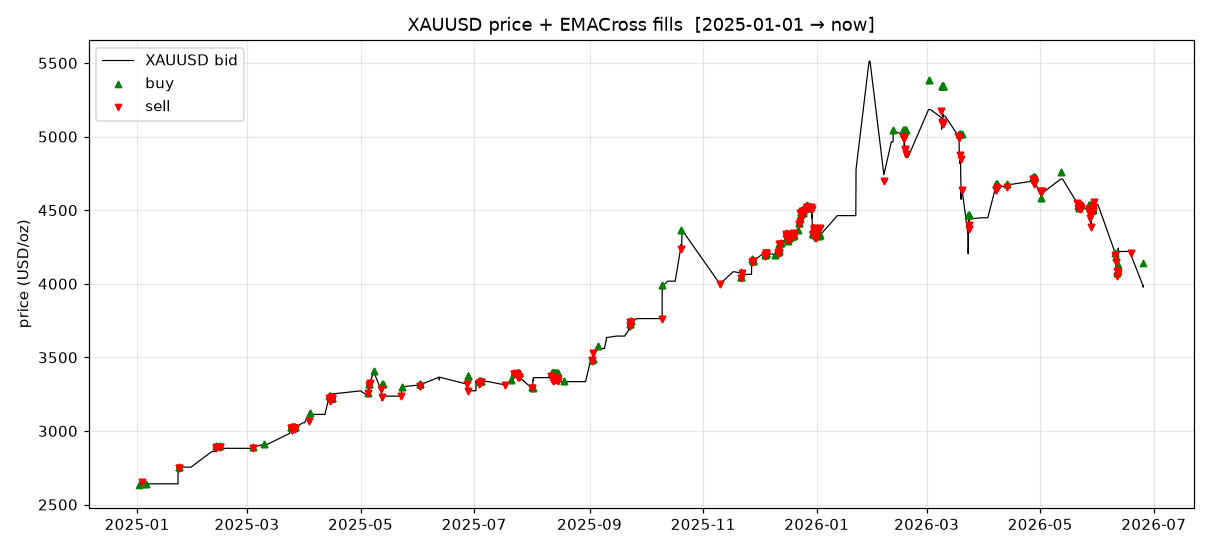
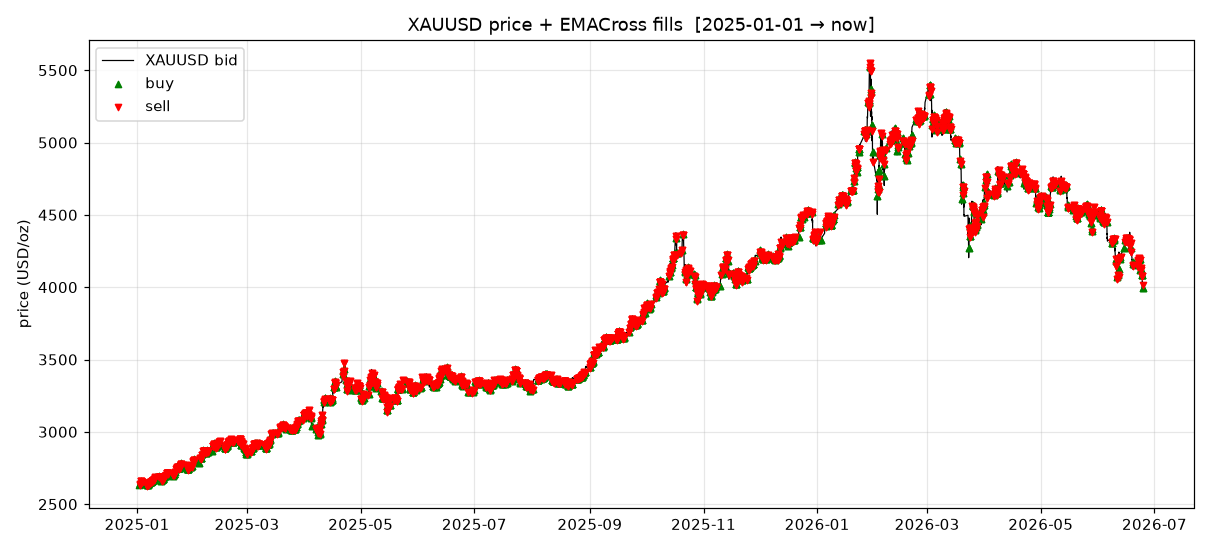
Add tick→m1 pipeline (paired, complete feed) + gold validation plan
The first backtest's +1882% was a data artifact: Dukascopy m1 candles are
downloaded one price side at a time onto different minute grids, and forward-
filling them fabricated crossed books (ask < bid) on 42% of minutes -> buys
filled below the bid = fictional free money. The crossed-book filter was a
stopgap (drops 42% of bars, leaving holes that distort the EMA -> -1080%).

build_m1_from_ticks.py fixes it at the source: download Dukascopy TICK data
(bid+ask paired per row) and resample both from one stream, so ask >= bid holds
by construction (selftest + crossed==0 + >=800 bars/day asserts). Run sequential
with retries — a parallel fan-out triggered throttling that silently returned 6%
of the ticks. On clean, complete data (523,505 bars, 0 crossed, 1136/day) the
honest result is -92.6%: EMACross(50/200) has no edge and whipsaws to death.

docs/gold-strategy-validation-plan.md lays out the 3-tier ladder (Dukascopy
research -> IBKR GC-futures venue-match -> IBKR paper) with real measured IBKR
numbers (GC spread ~$0.30/oz, ~30-35:1, 3500-pt/request cap, spot has no data).

diff --git a/XAU-NT-Wrangler/scripts/build_m1_from_ticks.py b/XAU-NT-Wrangler/scripts/build_m1_from_ticks.py
@@ -1,0 +1,183 @@
+#!/usr/bin/env python3
+"""
+Build PAIRED 1-minute bid/ask bars for a Dukascopy instrument from raw TICK data.
+
+Why ticks: Dukascopy m1 candles must be downloaded one price side at a time
+(-p bid / -p ask), so bid and ask land on DIFFERENT minute grids. Forward-filling
+the two onto a common grid (what download_dukascopy.sh + the old backtest did)
+pairs a fresh quote on one side with a stale one on the other and fabricates
+crossed books (ask < bid) on ~42% of minutes -> fictional fills. Full writeup:
+docs/dukascopy-data-issues.md.
+
+Tick data has bid AND ask in the SAME record, so resampling both from one tick
+stream keeps them on an identical grid and ask >= bid holds column-wise by
+construction (proven in demo()). Output matches the old format
+(timestamp_ms,open,high,low,close,volume) so backtest.py reads it unchanged.
+
+Usage:
+    python scripts/build_m1_from_ticks.py xauusd 2025 2026-06-25   # inst from to (one shot)
+    python scripts/build_m1_from_ticks.py xauusd 2025 2026 --download-only  # populate _parts only
+    python scripts/build_m1_from_ticks.py xauusd --merge-only      # _parts -> bid.csv/ask.csv
+    python scripts/build_m1_from_ticks.py --selftest               # offline invariant check
+
+`from`/`to` accept YYYY or YYYY-MM-DD. --download-only + --merge-only let several
+processes (or a fan-out workflow) each grab a disjoint date slice into the shared
+<outdir>/_parts dir, then merge once at the end.
+
+Needs node/npx (uses `npx dukascopy-node`). Downloads & aggregates one MONTH at a
+time (a single day of XAUUSD ticks is ~266k rows) so tick volume never blows up
+memory/disk; raw tick CSVs live in a temp dir and are deleted after aggregation.
+Per-month m1 results are cached in <outdir>/_parts so a long run is resumable.
+
+RUN IT SEQUENTIALLY. Dukascopy throttles concurrent clients and (without retries)
+silently drops the throttled hours, yielding sparse months -> garbage backtests.
+We learned this the hard way: a 6-way parallel fan-out returned ~6% of the ticks.
+The download is network/throttle-bound, so concurrency buys little and risks a lot;
+-r/-re retries + a >=800 bars/day completeness assert are the guardrails.
+"""
+import glob
+import os
+import subprocess
+import sys
+import tempfile
+from datetime import date
+
+import pandas as pd
+
+COLS = ["timestamp", "open", "high", "low", "close", "volume"]
+
+
+def aggregate(tick_csv: str):
+    """One tick CSV -> (bid_m1, ask_m1) DataFrames in output format, identical grid."""
+    t = pd.read_csv(tick_csv)
+    low = {c.lower(): c for c in t.columns}
+    t.index = pd.to_datetime(t[low["timestamp"]], unit="ms", utc=True)
+    if "bidvolume" in low and "askvolume" in low:
+        vol = (t[low["bidvolume"]] + t[low["askvolume"]]).resample("1min").sum()
+    else:  # no -v on the download: fall back to tick count as the activity proxy
+        vol = t[low["bidprice"]].resample("1min").count().astype(float)
+
+    def m1(price_col: str) -> pd.DataFrame:
+        o = t[price_col].resample("1min").ohlc()
+        o["volume"] = vol
+        o = o[o["open"].notna()]  # keep only minutes that actually traded
+        o.insert(0, "timestamp", o.index.astype("int64") // 10**6)
+        return o.reset_index(drop=True)
+
+    return m1(low["bidprice"]), m1(low["askprice"])
+
+
+def _months(start: date, to: date):
+    y, m = start.year, start.month
+    while date(y, m, 1) < to:
+        nxt = date(y + (m == 12), (m % 12) + 1, 1)
+        yield max(date(y, m, 1), start), min(nxt, to)
+        y, m = nxt.year, nxt.month
+
+
+def download_months(inst: str, start: date, to: date, parts: str) -> None:
+    """Download+aggregate each month in [start, to) into parts/{bid,ask}-YYYY-MM.csv."""
+    os.makedirs(parts, exist_ok=True)
+    for mstart, mend in _months(start, to):
+        tag = f"{mstart:%Y-%m}"
+        bpath, apath = (os.path.join(parts, f"{s}-{tag}.csv") for s in ("bid", "ask"))
+        if os.path.exists(bpath) and os.path.exists(apath):
+            print(f"[{tag}] cached, skip", flush=True)
+            continue
+        with tempfile.TemporaryDirectory() as tmp:
+            print(f"[{tag}] downloading ticks...", flush=True)
+            subprocess.run(
+                # -r/-rp: retry FAILED artifacts (network/throttle errors). -fr: don't kill the run
+                # when an hour is still unavailable after retries (closed-market hours are legitimately
+                # 0-byte). NOT -re: retrying every weekend/holiday empty hour 5x would take hours and,
+                # with the default fail-after-retries, aborts on the first closed hour. The >=800
+                # bars/day assert below is the real guard against silently-sparse (throttled) months.
+                ["npx", "--yes", "dukascopy-node", "-i", inst,
+                 "-from", mstart.isoformat(), "-to", mend.isoformat(),
+                 "-t", "tick", "-p", "bid", "-v", "-f", "csv", "-dir", tmp,
+                 "-bs", "20", "-bp", "500", "-r", "5", "-rp", "1500", "-fr"],
+                check=True, stdout=subprocess.DEVNULL, stderr=subprocess.DEVNULL,
+            )
+            csvs = glob.glob(os.path.join(tmp, "*.csv"))
+            if not csvs or os.path.getsize(csvs[0]) == 0:
+                # empty month (instrument not yet listed / market closed): mark done so resume skips
+                for p in (bpath, apath):
+                    pd.DataFrame(columns=COLS).to_csv(p, index=False)
+                print(f"[{tag}] empty, skipped", flush=True)
+                continue
+            b, a = aggregate(csvs[0])
+            days = pd.to_datetime(b["timestamp"], unit="ms", utc=True).dt.date.nunique()
+            per_day = len(b) / max(days, 1)
+            if per_day < 800:  # XAUUSD trades ~1380 min/day; sub-800 means a throttled/partial month
+                sys.exit(f"[{tag}] SPARSE: {len(b):,} bars / {days} days = {per_day:.0f}/day "
+                         f"(expected ~1380). Throttled download — rerun (resumes); reduce concurrency.")
+            b.to_csv(bpath, index=False)
+            a.to_csv(apath, index=False)
+            print(f"[{tag}] +{len(b):,} m1 bars over {days} days ({per_day:.0f}/day)", flush=True)
+
+
+def merge(outdir: str) -> None:
+    """Concat all _parts into bid.csv/ask.csv and assert the paired/no-crossed invariant."""
+    parts = os.path.join(outdir, "_parts")
+    for name in ("bid", "ask"):
+        files = sorted(glob.glob(os.path.join(parts, f"{name}-*.csv")))
+        if not files:
+            sys.exit(f"no _parts found in {parts} — run a download first")
+        df = pd.concat(pd.read_csv(f) for f in files)
+        df = df.drop_duplicates("timestamp", keep="last").sort_values("timestamp")
+        path = os.path.join(outdir, f"{name}.csv")
+        df[COLS].to_csv(path, index=False)
+        print(f"wrote {len(df):,} rows -> {path}")
+    b = pd.read_csv(os.path.join(outdir, "bid.csv"))
+    a = pd.read_csv(os.path.join(outdir, "ask.csv"))
+    assert (b["timestamp"].values == a["timestamp"].values).all(), "bid/ask grids differ!"
+    px = ["open", "high", "low", "close"]
+    crossed = int((a[px].values < b[px].values).any(axis=1).sum())
+    print(f"crossed-book minutes: {crossed} (expected 0)")
+    t = pd.to_datetime(b["timestamp"], unit="ms", utc=True)
+    days = t.dt.date.nunique()
+    per_day = len(b) / max(days, 1)
+    print(f"completeness: {len(b):,} bars / {days} days = {per_day:.0f}/day (XAUUSD full day ~1380)")
+    assert per_day >= 800, f"INCOMPLETE: {per_day:.0f} bars/day — throttled download; delete _parts and rerun sequentially"
+
+
+def demo() -> None:
+    """Offline invariant: paired ticks resampled to m1 never yield a crossed book,
+    even when price ramps within a minute (high is late, low is early)."""
+    base = 1748822400000
+    rows = "timestamp,askPrice,bidPrice,askVolume,bidVolume\n" + "".join(
+        f"{base + i * 1000},{3000 + i * 0.1 + 0.30:.3f},{3000 + i * 0.1:.3f},1,1\n"
+        for i in range(120)  # 2 full minutes of 1s ticks, bid rising, ask = bid + 0.30
+    )
+    p = os.path.join(tempfile.gettempdir(), "_ticks_selftest.csv")
+    with open(p, "w") as f:
+        f.write(rows)
+    bid, ask = aggregate(p)
+    assert len(bid) == 2 and (bid["timestamp"].values == ask["timestamp"].values).all()
+    for col in ("open", "high", "low", "close"):
+        assert (ask[col].values >= bid[col].values).all(), f"crossed on {col}"
+    assert bid["high"].iloc[0] > bid["low"].iloc[0], "within-minute range lost"
+    assert bid["volume"].iloc[0] == 120, "volume not summed"  # 60 ticks * (askVol1+bidVol1)
+    print("selftest OK: paired ticks -> identical grid, ask>=bid column-wise, range preserved")
+
+
+def _pdate(s: str) -> date:
+    return date(int(s), 1, 1) if len(s) == 4 else date.fromisoformat(s)
+
+
+if __name__ == "__main__":
+    flags = {a for a in sys.argv[1:] if a.startswith("--")}
+    pos = [a for a in sys.argv[1:] if not a.startswith("--")]
+    if "--selftest" in flags or (pos and pos[0] == "demo"):
+        demo()
+    else:
+        inst = pos[0] if pos else "xauusd"
+        outdir = f"data/{inst}-m1"
+        if "--merge-only" in flags:
+            merge(outdir)
+        else:
+            start = _pdate(pos[1]) if len(pos) > 1 else date(2003, 1, 1)
+            to = _pdate(pos[2]) if len(pos) > 2 else date.today()
+            download_months(inst, start, to, os.path.join(outdir, "_parts"))
+            if "--download-only" not in flags:
+                merge(outdir)

diff --git a/XAU-NT-Wrangler/docs/gold-strategy-validation-plan.md b/XAU-NT-Wrangler/docs/gold-strategy-validation-plan.md
@@ -1,0 +1,208 @@
+# Gold strategy validation plan
+
+How to take a XAUUSD strategy from idea to real money **without fooling yourself**.
+The core idea: a backtest is an *approximation of one venue using a model*, so no
+single number is trustworthy. Confidence comes from **triangulation** — three
+independent views that each close a different gap, and that must roughly agree.
+
+```text
+Dukascopy tick history   →  strategy research   (does an edge exist at all?)
+IBKR 1-min bars (recent) →  venue-matched test  (does the edge survive MY broker?)
+IBKR paper               →  execution truth     (does it survive real fills?)
+        │                          │                        │
+   deep + free               correct prices            real latency/slippage
+   proxy venue               shallow history           limited duration
+```
+
+Only promote a strategy to the next tier when the current one passes. If the three
+disagree, the backtest was lying — and the table below tells you *which* lie.
+
+---
+
+## Why three tiers — the two gaps
+
+A Dukascopy backtest differs from live IBKR trading along **two independent axes**.
+Each tier exists to close one of them.
+
+**Gap 1 — venue (data).** Dukascopy's bid/ask come from *its* liquidity pool. IBKR's
+gold quotes come from *IBKR's* providers. Different price path, different spread,
+different cost structure (CFD-style wide spread vs IBKR's tight-spread-plus-commission
+-plus-financing). A strategy that prints money on Dukascopy prices may not on IBKR's.
+
+**Gap 2 — execution (model).** Even on perfect data, a backtest fills instantly at
+top-of-book with no latency, no slippage, no partial fills, no depth. Live, your
+order travels to the exchange, the market moves, and a large clip eats into liquidity
+you can't see. Only real (paper) order flow exposes this.
+
+| Tier | Closes | Leaves open |
+|------|--------|-------------|
+| 1 — Dukascopy | nothing (research) | venue **and** execution |
+| 2 — IBKR bars | venue (Gap 1) | execution (Gap 2) |
+| 3 — IBKR paper | execution (Gap 2) | (psychology, real-money fills) |
+
+---
+
+## Tier 1 — Dukascopy tick history (research)
+
+**Purpose:** answer the cheapest, most important question first — *is there any edge?*
+Burn deep, free history here so you fail fast before spending IBKR's rate-limited quota.
+
+**Data:** `scripts/build_m1_from_ticks.py` downloads Dukascopy **tick** data (bid+ask
+paired per row) and aggregates to paired 1-minute bars. ~23 years available, free, no
+auth. Tick is the finest time-grain a retail source offers.
+
+**Why tick, not the m1-per-price download:** Dukascopy's m1 candles come one price side
+at a time, on different minute grids; forward-filling them onto a common grid fabricates
+crossed books (`ask < bid`) and fake fills. See [dukascopy-data-issues.md](dukascopy-data-issues.md).
+Tick rows are already paired, so the spread is real and crossing is impossible.
+
+**Limits / what it is NOT:**
+- It's a **proxy venue** — not your broker's prices.
+- **Top-of-book only** — no order-book depth, so no size/slippage modeling.
+- We currently aggregate to m1; for maximum fidelity feed raw `QuoteTick`s straight to
+  the engine (NautilusTrader ingests them natively) instead of the m1 step.
+
+**Exit gate:** the strategy shows a real edge *after* a realistic spread (~0.3–0.6 USD
+for gold) and commission. If it only works at zero cost, stop here.
+
+---
+
+## Tier 2 — IBKR recent 1-min bars (venue-matched backtest)
+
+**Purpose:** re-run the *same* strategy on your actual broker's prices and spec. If the
+edge evaporates when you swap Dukascopy spot prices for IBKR's gold contract, it was
+venue-specific noise.
+
+**Instrument: GC gold futures (decided).** Spot XAUUSD has no market/historical data on
+this account; the **GC future is accessible** (10-min delayed, which is fine for a
+*historical* backtest). So Tier 2 targets GC, with its real spec:
+- **GC**: COMEX, 100 oz/contract, **$0.10 tick** ($10/tick), ~$405k notional, ~**30–35:1**.
+- **MGC** (E-Micro, 10 oz): same leverage at 1/10 the size — the right granularity for a
+  modest account (a single GC is ~$405k notional; size with MGC).
+- Model it as a Nautilus **futures instrument** (multiplier 100/10, price increment 0.10,
+  COMEX venue, realistic margin) — *not* the 5-decimal FX-pair the current backtest uses.
+
+**Caveat — spot vs futures basis:** the strategy is researched on *spot* XAUUSD but
+validated on *futures*. Gold futures ≈ spot + cost-of-carry (small contango). For a
+trend-following EMA cross this basis is negligible, but note it; they are correlated, not
+identical, instruments.
+
+**Data path (grounded in measured limits):** IBKR delayed data is fine here, but:
+- `get_price_history` caps at **3,500 points/request** — measured: 3,491 one-min GC bars =
+  only **~2.4 days**. So a year of 1-min ≈ ~150 paged requests.
+- **Pacing** ~60 requests / 10 min, and IBKR drops data silently when throttled (same trap
+  as the Dukascopy download) → paginate politely and **assert completeness**.
+- Per-contract history only reaches that contract's **listing date** → you must build a
+  **continuous front-month series**: pull each expiry, roll on volume/OI crossover (or N
+  days pre-expiry), and back-adjust prices across the roll.
+
+**Pragmatic sequencing:** start **coarse** — a 1-hour or daily continuous GC series (few
+requests, trivially within caps) — to answer *does the edge survive IBKR gold prices at
+all?* Only build the expensive **1-min continuous** series (~150 paged, pacing-limited
+requests) if the coarse pass still shows an edge.
+
+**Model IBKR's real costs (not a CFD spread):** futures don't bake cost into a wide spread
+— it's a tight ~$0.30/oz spread **+ commission per contract** (IBKR futures commission +
+exchange/reg fees, fill in the actual schedule) **+ financing** is embedded in the futures
+price (cost-of-carry), so no separate swap line.
+
+**Exit gate:** the edge survives on IBKR prices with IBKR costs.
+
+---
+
+## Tier 3 — IBKR paper (execution truth)
+
+**Purpose:** the only tier that reveals what a backtest fundamentally cannot — real
+fills, latency, slippage, partial fills, rejects, and order-type behavior. This is the
+real accuracy check; no backtest replaces it.
+
+**Setup:** your IBKR paper account (TWS API on port 7497) is already verified and
+working. Run the strategy live against the paper feed for a meaningful window (weeks,
+across different regimes — quiet, trending, news).
+
+**What to compare:** paper fills vs the Tier-2 backtest's fills on the *same* signals —
+fill price slippage, timing lag, and any signals that fired in backtest but didn't fill
+live. Persistent gaps quantify Gap 2.
+
+**Exit gate:** paper P&L tracks the Tier-2 backtest within a tolerance you can live with.
+Only then consider small live size.
+
+---
+
+## Reconciliation — reading the disagreements
+
+Run all three and line up the equity curves. The divergence pattern is diagnostic:
+
+| Symptom | Likely cause | Fix |
+|---|---|---|
+| Tier 1 ≫ Tier 2 | venue gap: Dukascopy spread/path flatters the strategy | trust IBKR; the edge is venue-specific |
+| Tier 2 ≫ Tier 3 | execution gap: slippage/latency/partial fills | add slippage + latency to the model; resize |
+| All three negative | no edge (the honest case) | iterate the strategy, not the harness |
+| Tier 1 wildly positive, others flat | data artifact (e.g. crossed-book) | audit the data first — see lessons below |
+
+The goal is **agreement**, not a big number. Three views that agree on a modest edge
+beat one backtest that promises 1882%.
+
+---
+
+## Pre-flight checklist (fix before any number means anything)
+
+Hard lessons from this repo's first backtest. Until these are addressed, even a clean
+data feed produces an untradeable number:
+
+- [x] **Data integrity** — paired bid/ask, no crossed books, completeness asserted
+      (done via the tick pipeline; the old ffill bug is documented).
+- [ ] **Correct instrument** — model gold with a real $0.01 tick and sane leverage, not
+      a 5-decimal FX pair at ~3333× effective leverage.
+- [ ] **Real costs** — commission + financing/swap, matched to the venue being tested.
+- [ ] **Weekend/session gaps** — don't let the EMA blend Friday close into Monday open,
+      or assume orders fill through a closed market.
+- [ ] **Honest accounting** — mark-to-market equity (not just realized cash), and report
+      risk metrics (annualized return, Sharpe, max drawdown) — not a raw cumulative %.
+- [ ] **Completeness checks everywhere** — both Dukascopy and IBKR drop data silently
+      when throttled; assert bars/day and request-count sanity, never trust a 0 exit code.
+
+---
+
+## Real IBKR numbers (measured 2026-06-25, via the connected account)
+
+Probed live so the plan rests on facts, not doc estimates:
+
+**Contracts (verified IDs):**
+- Spot **XAUUSD "London Gold"** — `contract_id 69067924`, exchange `IBCMDTY`, type CMDTY (this is what the backtest models).
+- **GC** gold future — underlying `17340718`, COMEX, 100 oz/contract, **$0.10 tick**.
+- **MGC** E-Micro Gold — underlying `79702479`, COMEX, 10 oz/contract (1/10 the size).
+
+**GC front-active (Aug 2026) snapshot:** bid 4055.6 / ask 4055.9 → **spread ≈ $0.30/oz** =
+$30/contract = **0.74 bps**; notional **$405,580/contract**; open interest 273,569.
+→ Good news: IBKR's gold spread is the *same order* as Dukascopy's (~0.3–0.6) — the
+research feed isn't flattering the strategy on spread.
+
+**Leverage (futures):** GC initial margin is ~$11–13k/contract (exchange-set, volatility-
+dependent) → effective **~30–35:1** on $405k notional. MGC = same leverage, 1/10 size.
+This is the realistic ceiling — **not** the backtest's 100:1 (let alone the ~3333:1 FX-pair bug).
+
+**Data-access reality on this connection (a real blocker for Tier 2/3):**
+- Spot **XAUUSD: no market data and no historical data** ("No historical market data
+  available", empty snapshot) → needs the **spot-metals market-data subscription**.
+- **GC futures: accessible but 10-minute DELAYED** (`delayed: 600`), no real-time.
+- `get_account_summary` returns **all zeros** → the connected account isn't reporting a
+  funded balance, so exact per-position margin can't be read here. Confirm on a funded
+  account (or a what-if order) before trusting the leverage number above.
+- `get_price_history` hard cap: **3,500 data points per request** → 1-min history must be
+  paginated (a month of 1-min already exceeds it), and per-contract futures history only
+  reaches back to that contract's listing (deep history needs contract stitching).
+
+**Decision this forces:** the backtest models *spot XAUUSD*, but on this account spot has
+no data while the *GC future* does (delayed). Either (a) enable the spot-metals
+subscription to validate against XAUUSD as-is, or (b) validate against GC/MGC futures and
+adopt their spec ($0.10 tick, 100/10 oz, ~30–35:1, contract roll). Pick before Tier 2.
+
+## Status in this repo
+
+- Tier 1 data pipeline: **built and verified** ([build_m1_from_ticks.py](../scripts/build_m1_from_ticks.py),
+  `--selftest` + `crossed == 0` + ≥800 bars/day asserts).
+- The first backtest's headline (+1882%) was a **data artifact**, not alpha
+  ([dukascopy-data-issues.md](dukascopy-data-issues.md)).
+- Tier 2 / Tier 3: not yet started. Next: pull IBKR's `reqHeadTimestamp` + current gold
+  spread to scope the venue-matched backtest, and fix the Pre-flight model issues.